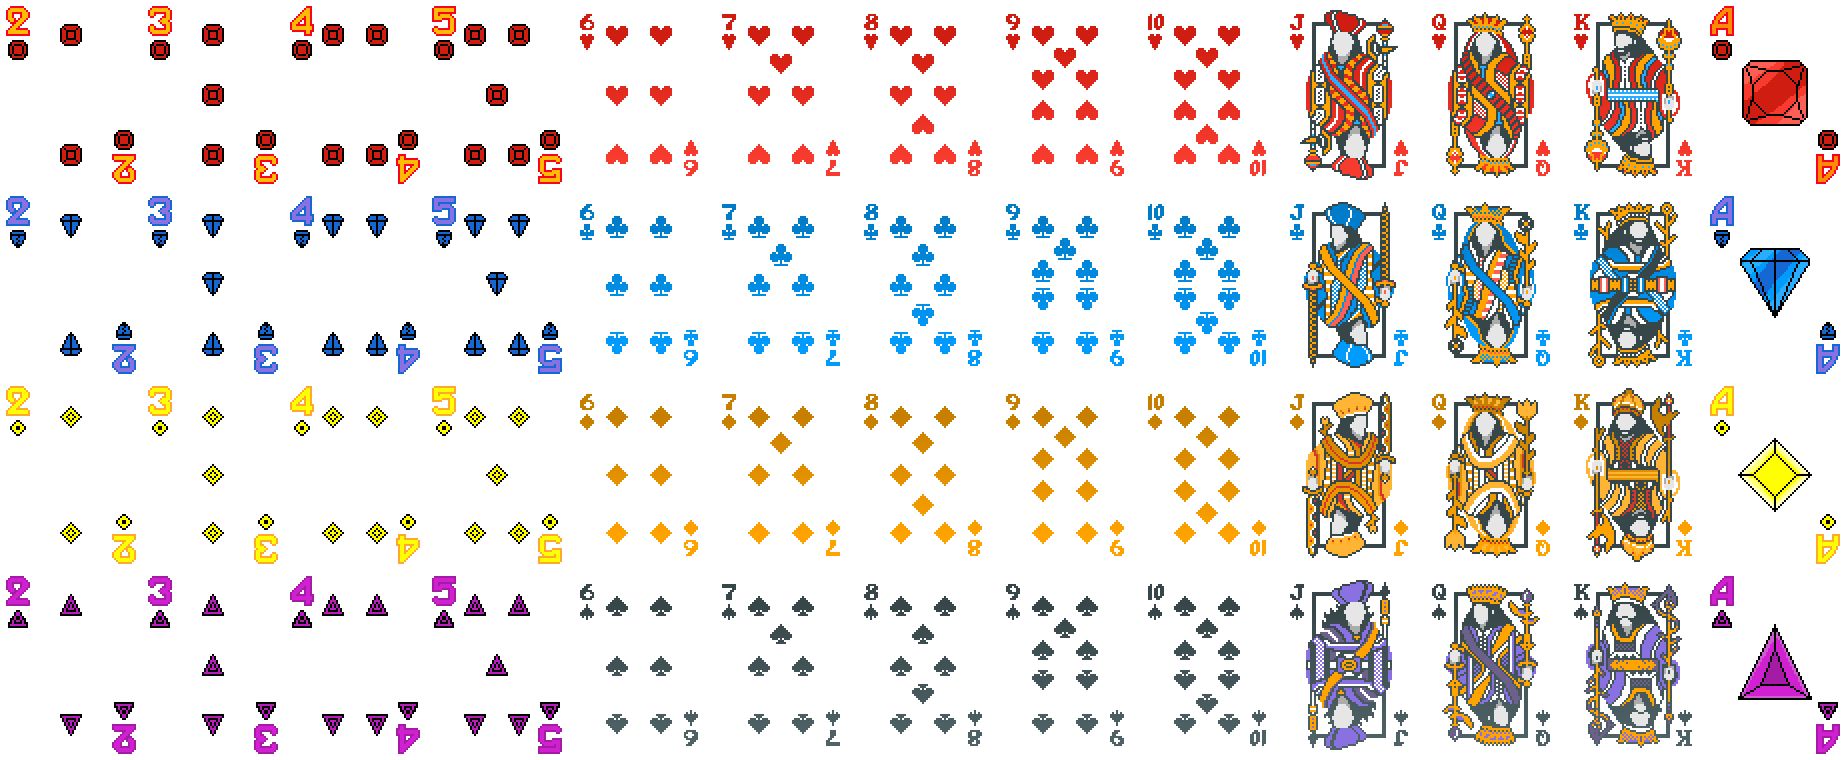
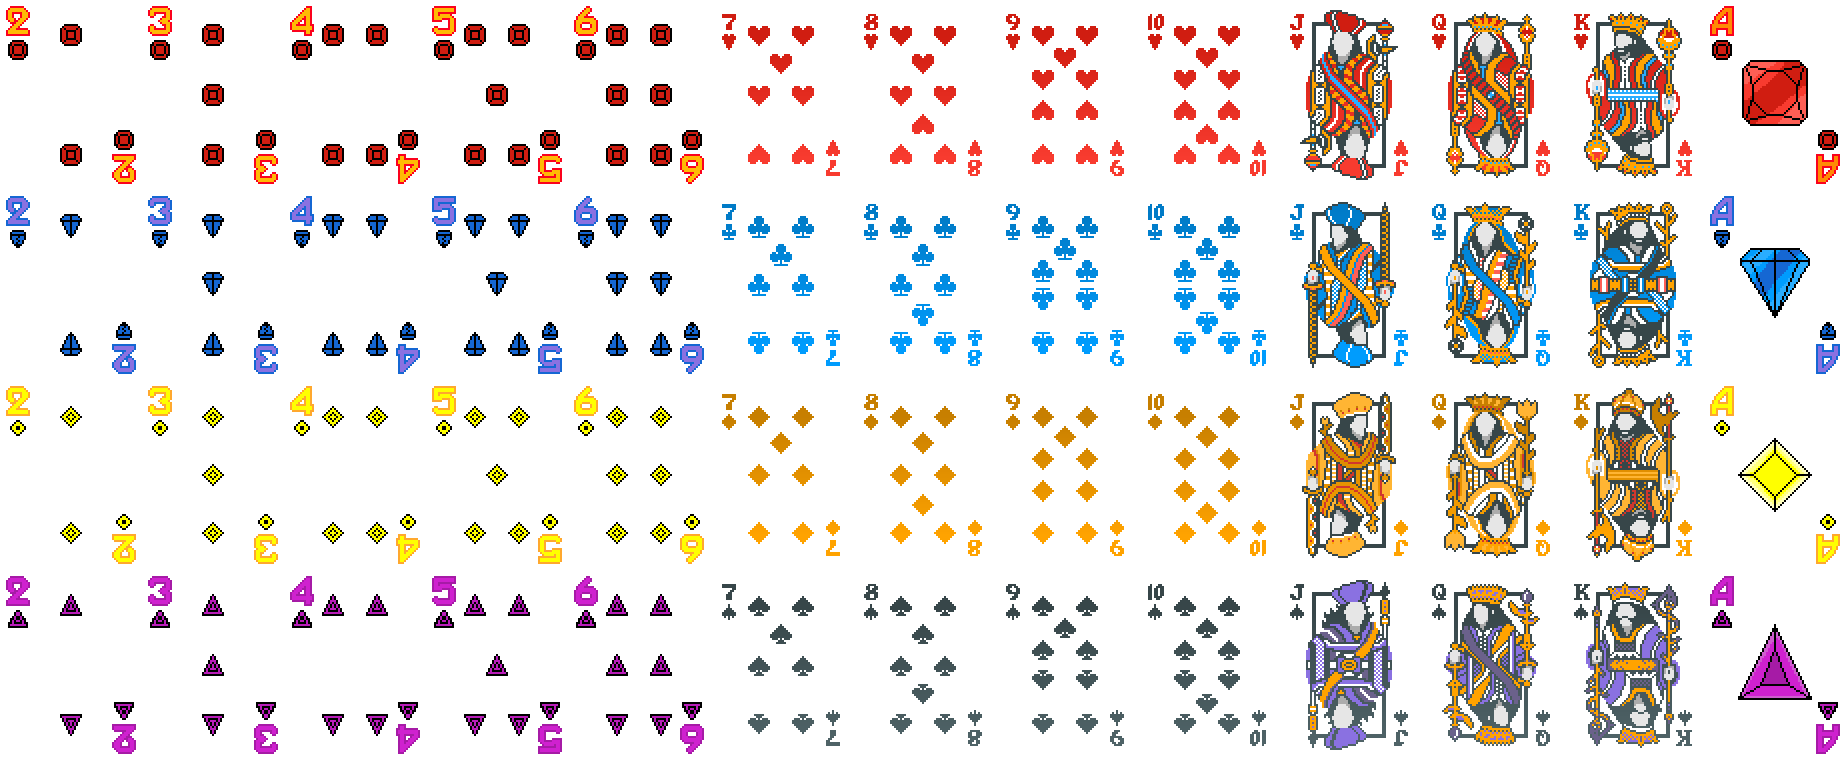
Add 6s and update progress

diff --git a/README.md b/README.md
@@ -19,7 +19,7 @@ Bejeweled-themed deck skin for Balatro
 - [x] 3
 - [x] 4
 - [x] 5
-- [ ] 6
+- [x] 6
 - [ ] 7
 - [ ] 8
 - [ ] 9
